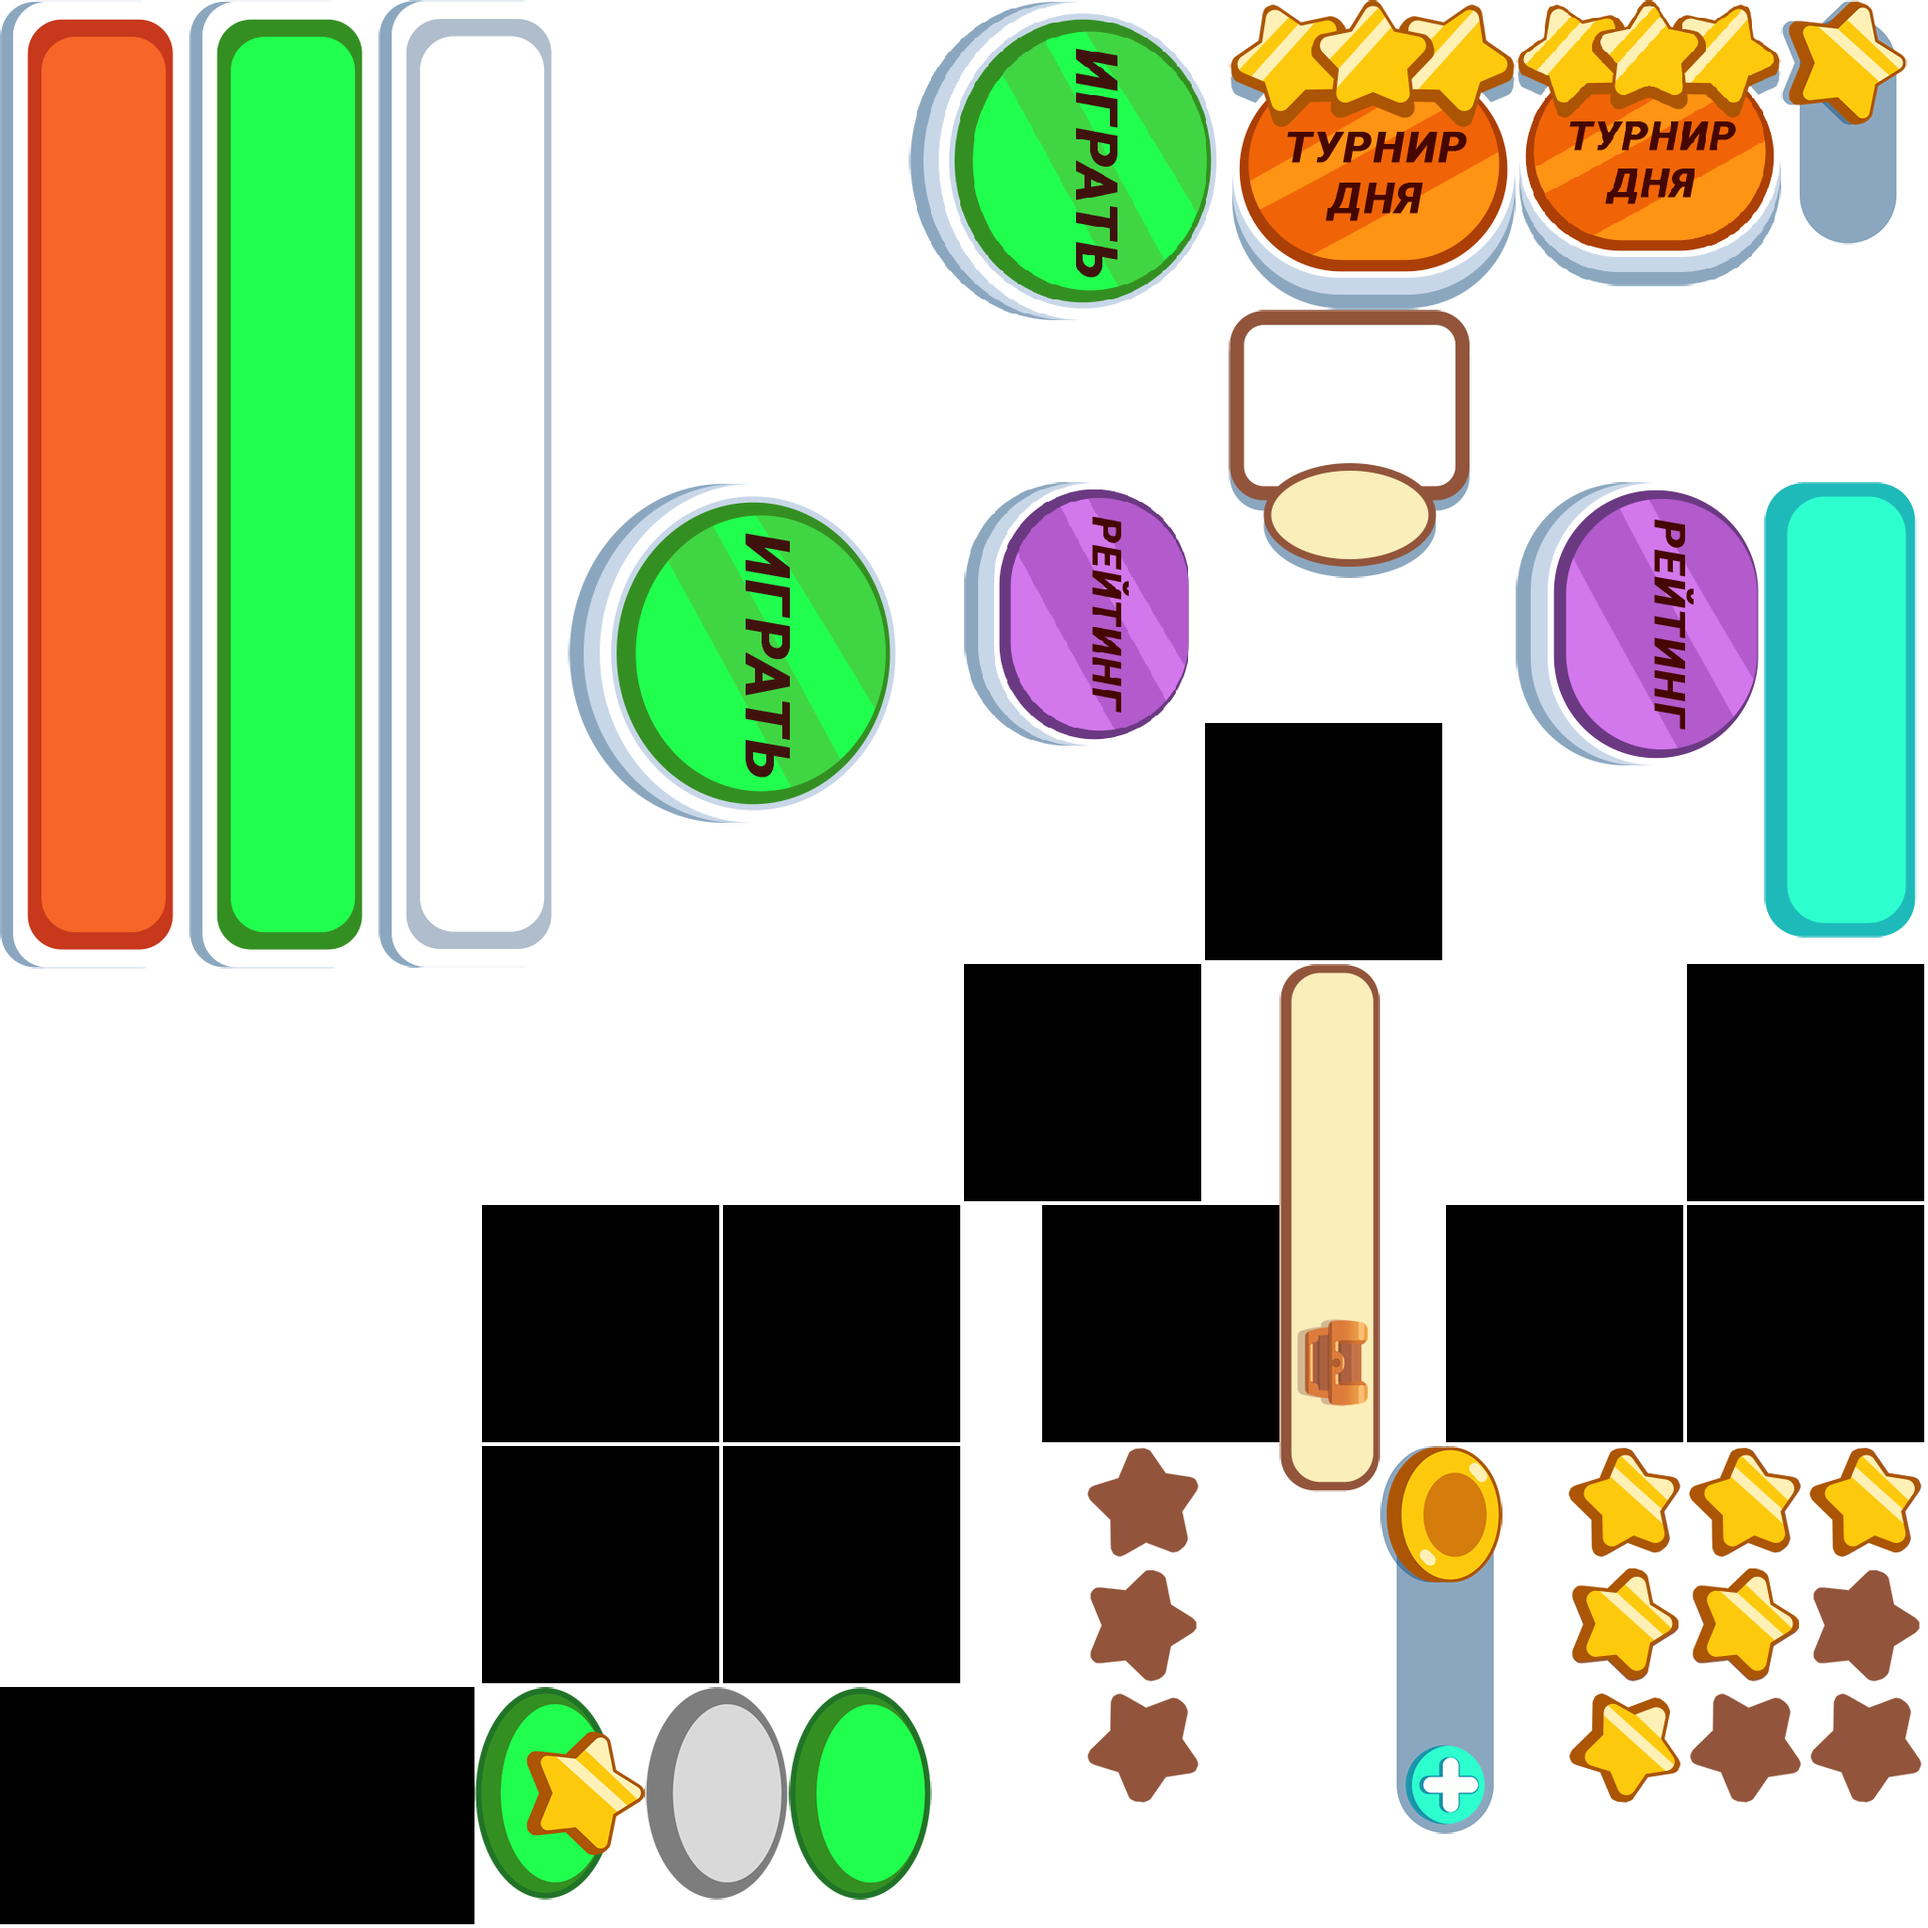
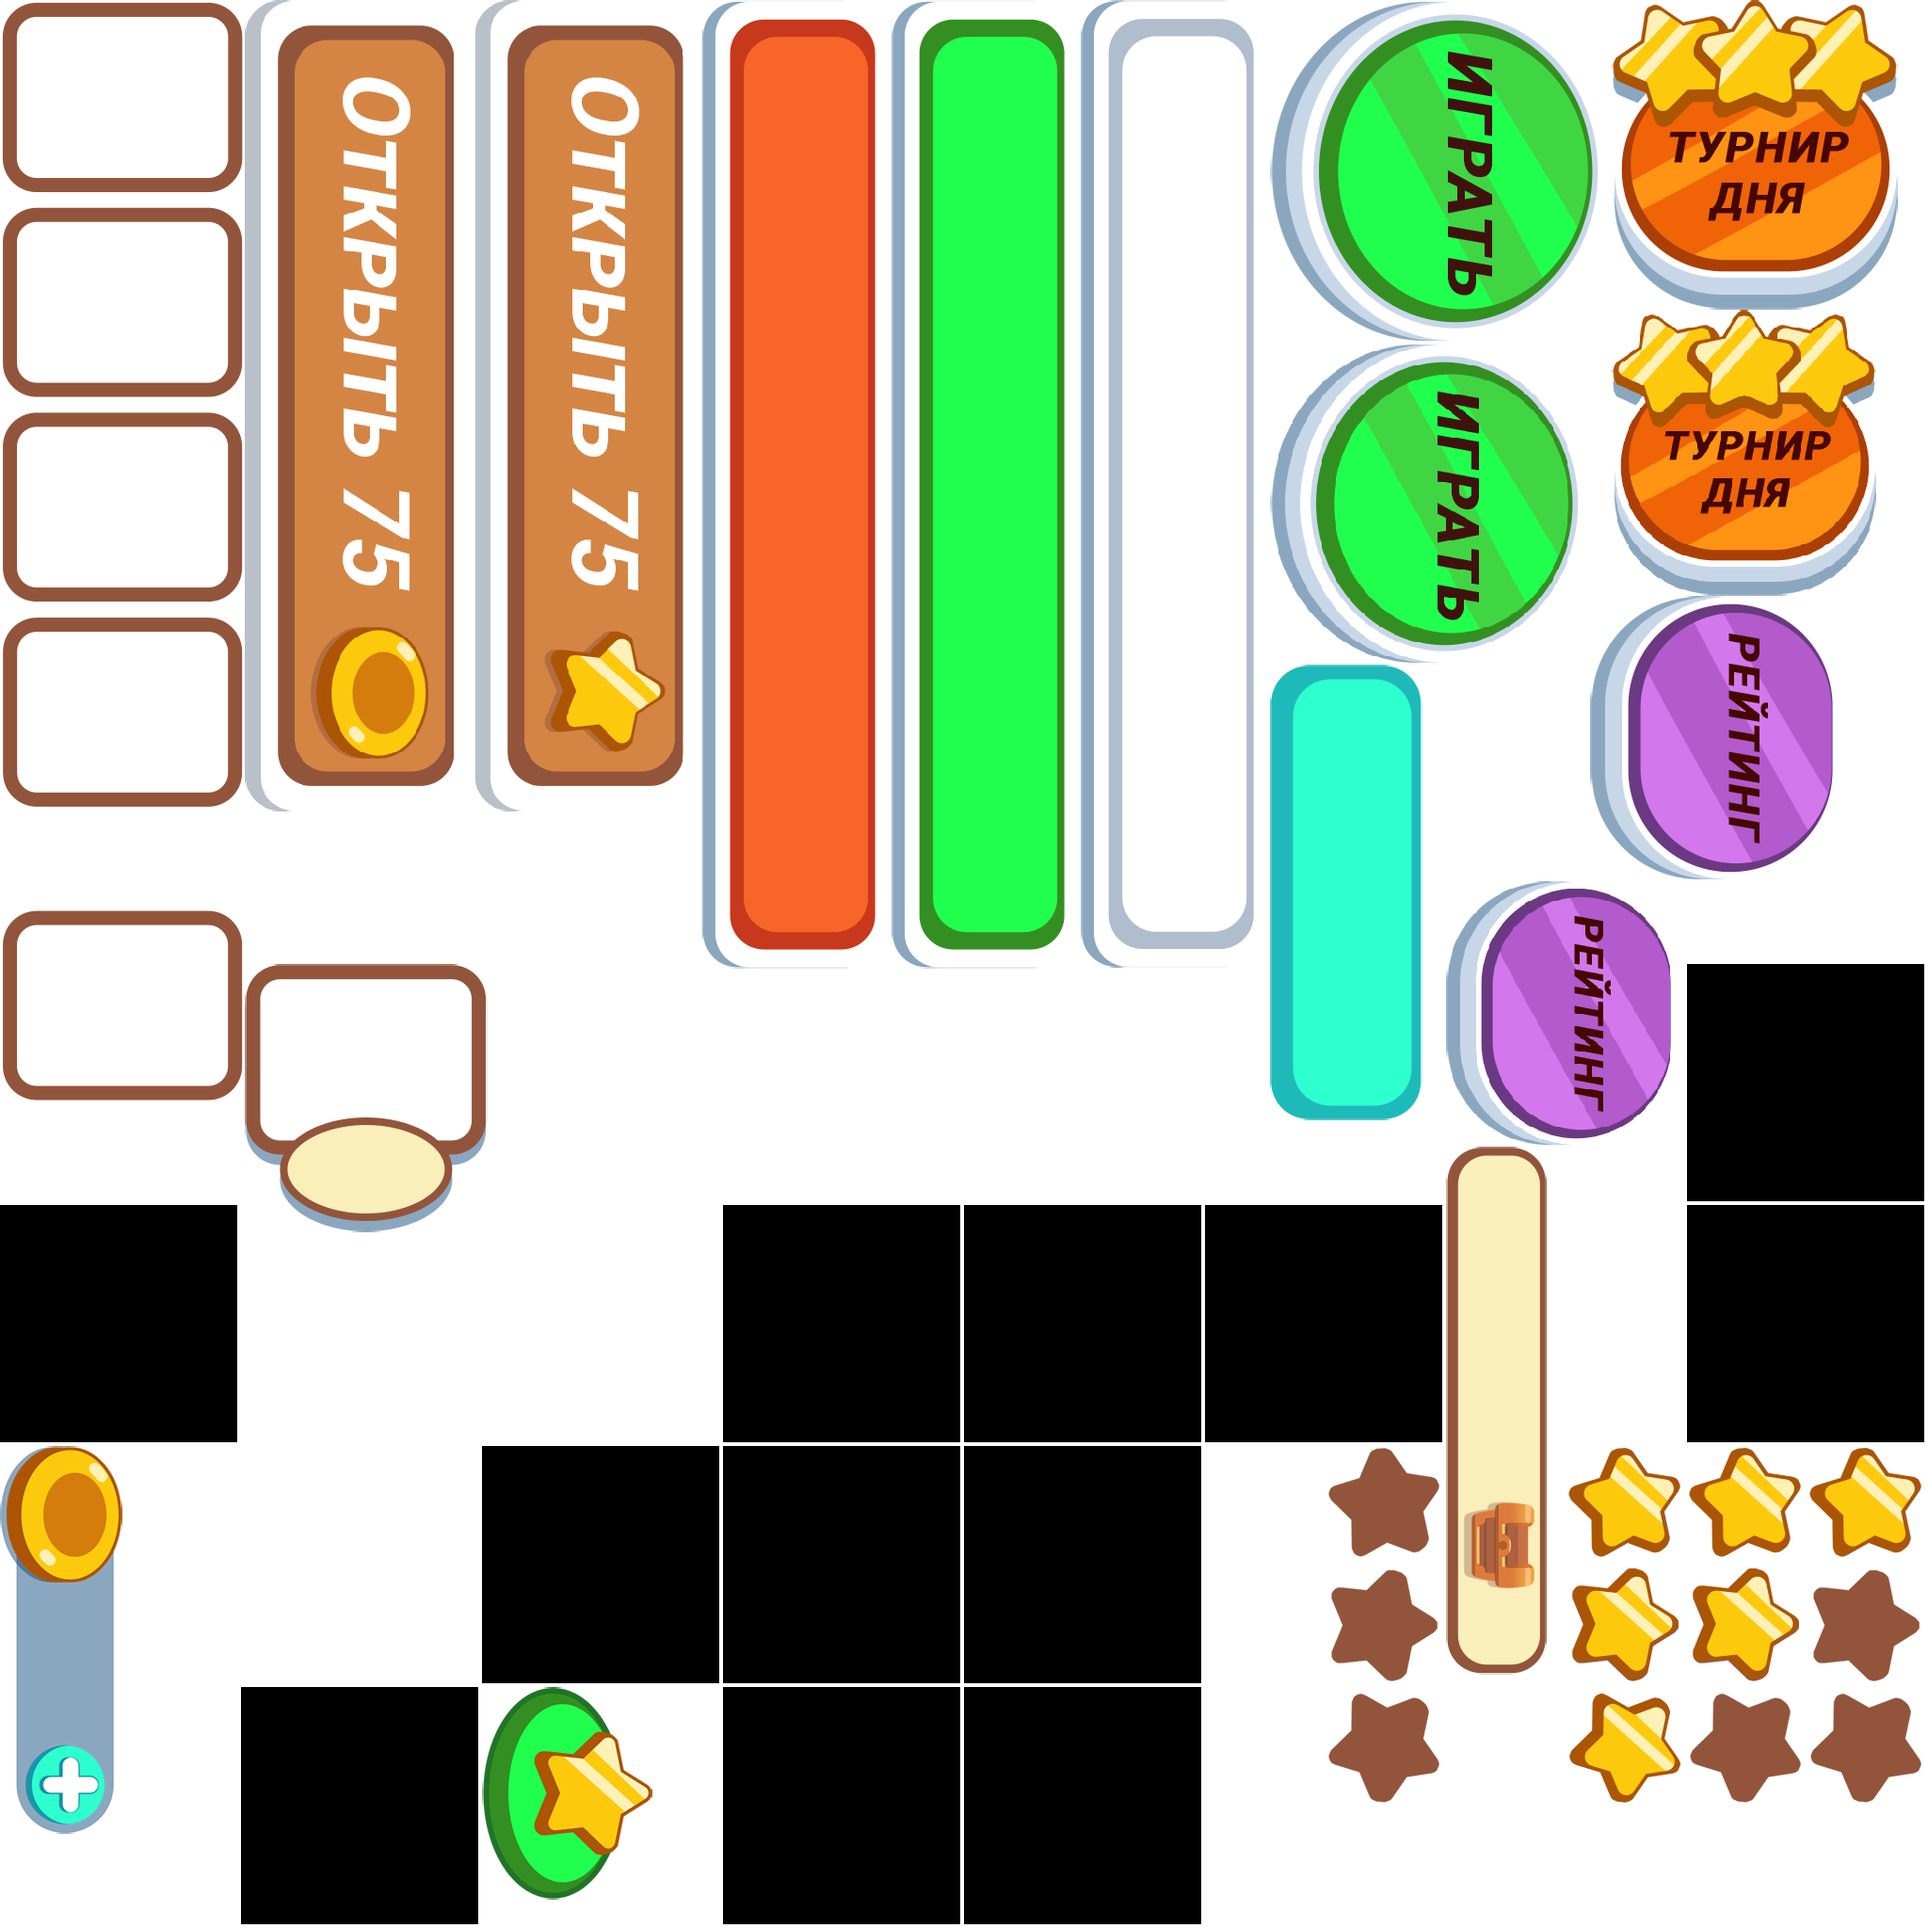
Add files via upload

diff --git a/scripts/c3runtime.js b/scripts/c3runtime.js
@@ -6670,17 +6670,21 @@ self.C3_GetObjectRefTable = function () {
 		C3.Plugins.Eponesh_GameScore.Exps.PlayerGet,
 		C3.Plugins.Text.Acts.SetText,
 		C3.Plugins.Sprite.Acts.SetAnimFrame,
+		C3.Plugins.Sprite.Cnds.CompareInstanceVar,
 		C3.Behaviors.Pin.Acts.PinByProperties,
 		C3.Plugins.Sprite.Acts.LoadURL,
 		C3.Plugins.Eponesh_GameScore.Exps.PlayerAvatar,
+		C3.Plugins.Sprite.Cnds.IsOverlapping,
 		C3.Plugins.Text.Cnds.CompareInstanceVar,
 		C3.Behaviors.Pin.Acts.Unpin,
-		C3.Plugins.Sprite.Cnds.CompareInstanceVar,
 		C3.Plugins.System.Cnds.Compare,
 		C3.Behaviors.MoveTo.Acts.MoveToPosition,
 		C3.Plugins.System.Cnds.IsGroupActive,
-		C3.Plugins.Date.Exps.GetUTCHours,
+		C3.Plugins.System.Exps.int,
+		C3.Plugins.System.Exps.tokenat,
+		C3.Plugins.Date.Exps.ToUTCString,
 		C3.Plugins.Date.Exps.Now,
+		C3.Plugins.Date.Exps.GetUTCHours,
 		C3.Plugins.Date.Exps.GetUTCMinutes,
 		C3.Plugins.Date.Exps.GetUTCSeconds,
 		C3.Plugins.System.Cnds.Every,
@@ -6691,6 +6695,7 @@ self.C3_GetObjectRefTable = function () {
 		C3.Plugins.Eponesh_GameScore.Acts.PlayerSet,
 		C3.Plugins.System.Cnds.Else,
 		C3.Plugins.Sprite.Exps.Y,
+		C3.Plugins.Eponesh_GameScore.Acts.AdsShowPreloader,
 		C3.Plugins.Sprite.Exps.X,
 		C3.Plugins.Sprite.Cnds.IsOutsideLayout,
 		C3.Plugins.System.Acts.GoToLayout,
@@ -6699,27 +6704,35 @@ self.C3_GetObjectRefTable = function () {
 		C3.Plugins.Eponesh_GameScore.Acts.LeaderboardFetch,
 		C3.Plugins.System.Acts.WaitForPreviousActions,
 		C3.Plugins.Eponesh_GameScore.Acts.PlayerSync,
-		C3.Plugins.Eponesh_GameScore.Cnds.LeaderboardEachPlayer,
 		C3.Plugins.Eponesh_GameScore.Exps.LeaderboardCurPlayerPosition,
+		C3.Plugins.Eponesh_GameScore.Cnds.LeaderboardEachPlayer,
 		C3.Plugins.Eponesh_GameScore.Exps.LeaderboardCurPlayerAvatar,
 		C3.Plugins.Eponesh_GameScore.Exps.LeaderboardCurPlayerField,
 		C3.Plugins.System.Cnds.Repeat,
 		C3.Plugins.System.Exps.loopindex,
 		C3.Plugins.System.Acts.AddVar,
 		C3.Plugins.Sprite.Exps.AnimationFrame,
-		C3.Plugins.System.Acts.SetFunctionReturnValue,
 		C3.Plugins.Date.Exps.ToTimerHours,
 		C3.Plugins.Date.Exps.ToTimerMinutes,
-		C3.Plugins.Date.Exps.GetUTCDay,
+		C3.Plugins.System.Acts.SetFunctionReturnValue,
 		C3.Plugins.Json.Cnds.IsBoolInstanceVarSet,
 		C3.Plugins.AJAX.Acts.RequestFile,
 		C3.Plugins.Json.Acts.SetBoolInstanceVar,
 		C3.Plugins.AJAX.Cnds.OnComplete,
 		C3.Plugins.System.Cnds.CompareBoolVar,
 		C3.Plugins.System.Cnds.TriggerOnce,
+		C3.Plugins.Sprite.Cnds.CompareOpacity,
 		C3.Plugins.System.Acts.SetBoolVar,
 		C3.Plugins.Sprite.Cnds.CompareFrame,
-		C3.Plugins.Sprite.Cnds.CompareOpacity,
+		C3.Plugins.Text.Cnds.CompareText,
+		C3.Plugins.Sprite.Acts.SetOpacity,
+		C3.Behaviors.MoveTo.Cnds.IsMoving,
+		C3.Behaviors.MoveTo.Cnds.OnArrived,
+		C3.Behaviors.MoveTo.Acts.Stop,
+		C3.Plugins.Sprite.Acts.SetPos,
+		C3.Plugins.Sprite.Exps.Opacity,
+		C3.Behaviors.MoveTo.Acts.MoveToObject,
+		C3.Plugins.System.Acts.CreateObject,
 		C3.Plugins.Json.Acts.Parse,
 		C3.Plugins.AJAX.Exps.LastData,
 		C3.Plugins.System.Exps.random,
@@ -6730,11 +6743,7 @@ self.C3_GetObjectRefTable = function () {
 		C3.Plugins.Arr.Exps.At,
 		C3.Plugins.Arr.Acts.Delete,
 		C3.Plugins.Arr.Exps.IndexOf,
-		C3.Plugins.Text.Exps.Text,
-		C3.Plugins.Text.Cnds.CompareText,
-		C3.Plugins.Sprite.Acts.SetOpacity,
-		C3.Plugins.Eponesh_GameScore.Acts.AdsShowPreloader,
-		C3.Behaviors.MoveTo.Cnds.IsMoving
+		C3.Plugins.Text.Exps.Text
 	];
 };
 self.C3_JsPropNameTable = [
@@ -6746,11 +6755,13 @@ self.C3_JsPropNameTable = [
 	{Индикатор: 0},
 	{ИндикаторЗвезд: 0},
 	{КамкаКартинки: 0},
+	{Load: 0},
 	{КартинкаПример: 0},
 	{ID: 0},
 	{КнопкаВыбора: 0},
 	{ТабличкаСундука: 0},
 	{ТекстВыбор: 0},
+	{Подложка: 0},
 	{Прикрепить: 0},
 	{РамкиДляАватарок: 0},
 	{ДвижениеК: 0},
@@ -6794,6 +6805,11 @@ self.C3_JsPropNameTable = [
 	{неверноИндикатор: 0},
 	{РамкаДляИгрокаНаКарте: 0},
 	{АватарИгрока: 0},
+	{ПозицияТекст: 0},
+	{Текст: 0},
+	{КрылатыеВыражения: 0},
+	{Звезда: 0},
+	{Монета: 0},
 	{Аватары: 0},
 	{АватарыТурик: 0},
 	{StarsCount: 0},
@@ -6802,6 +6818,7 @@ self.C3_JsPropNameTable = [
 	{Checkpoints: 0},
 	{TimeLeft: 0},
 	{TimeNow: 0},
+	{Day: 0},
 	{GSDay: 0},
 	{RandomID: 0},
 	{TrueStr: 0},
@@ -6933,17 +6950,37 @@ self.C3_ExpressionFuncs = [
 			return () => v0.GetValue();
 		},
 		p => {
+			const v0 = p._GetNode(0).GetVar();
+			return () => (v0.GetValue() * 2);
+		},
+		() => 1,
+		p => {
+			const v0 = p._GetNode(0).GetVar();
+			return () => (((v0.GetValue() * 2) + 1) % 7);
+		},
+		p => {
 			const f0 = p._GetNode(0).GetBoundMethod();
 			return () => f0();
 		},
 		() => -4,
 		() => 0,
-		() => 1,
 		() => 2,
 		() => 3,
 		() => 8,
 		() => 540,
 		() => 1043,
+		() => "Турнир",
+		p => {
+			const f0 = p._GetNode(0).GetBoundMethod();
+			const f1 = p._GetNode(1).GetBoundMethod();
+			const f2 = p._GetNode(2).GetBoundMethod();
+			const f3 = p._GetNode(3).GetBoundMethod();
+			return () => f0(f1(f2((f3() + (3 * 3600000))), 1, " "));
+		},
+		p => {
+			const f0 = p._GetNode(0).GetBoundMethod();
+			return () => f0("day");
+		},
 		() => "Таймер Турнира",
 		p => {
 			const f0 = p._GetNode(0).GetBoundMethod();
@@ -6953,7 +6990,7 @@ self.C3_ExpressionFuncs = [
 			const f4 = p._GetNode(4).GetBoundMethod();
 			const f5 = p._GetNode(5).GetBoundMethod();
 			const f6 = p._GetNode(6).GetBoundMethod();
-			return () => f0((((((f1(f2()) + 1) * 3600) + (f3(f4()) * 60)) + f5(f6())) * 1000));
+			return () => f0((((((f1(f2()) + 3) * 3600) + (f3(f4()) * 60)) + f5(f6())) * 1000));
 		},
 		() => 60,
 		() => "Кнопочки",
@@ -6977,6 +7014,11 @@ self.C3_ExpressionFuncs = [
 		() => 5,
 		() => "",
 		() => -5,
+		() => -1,
+		p => {
+			const f0 = p._GetNode(0).GetBoundMethod();
+			return () => (f0() + 1);
+		},
 		p => {
 			const f0 = p._GetNode(0).GetBoundMethod();
 			return () => (f0() - 1);
@@ -6990,16 +7032,87 @@ self.C3_ExpressionFuncs = [
 		p => {
 			const f0 = p._GetNode(0).GetBoundMethod();
 			const v1 = p._GetNode(1).GetVar();
+			return () => f0(v1.GetValue());
+		},
+		() => 10,
+		p => {
+			const f0 = p._GetNode(0).GetBoundMethod();
+			const v1 = p._GetNode(1).GetVar();
+			const f2 = p._GetNode(2).GetBoundMethod();
+			const v3 = p._GetNode(3).GetVar();
+			return () => and((and("0", f0(v1.GetValue())) + ":"), f2(v3.GetValue()));
+		},
+		p => {
+			const f0 = p._GetNode(0).GetBoundMethod();
+			const v1 = p._GetNode(1).GetVar();
+			const f2 = p._GetNode(2).GetBoundMethod();
+			const v3 = p._GetNode(3).GetVar();
+			return () => and((and(f0(v1.GetValue()), ":") + "0"), f2(v3.GetValue()));
+		},
+		p => {
+			const f0 = p._GetNode(0).GetBoundMethod();
+			const v1 = p._GetNode(1).GetVar();
+			const f2 = p._GetNode(2).GetBoundMethod();
+			const v3 = p._GetNode(3).GetVar();
+			return () => and(((and("0", f0(v1.GetValue())) + ":") + "0"), f2(v3.GetValue()));
+		},
+		p => {
+			const f0 = p._GetNode(0).GetBoundMethod();
+			const v1 = p._GetNode(1).GetVar();
 			const f2 = p._GetNode(2).GetBoundMethod();
 			const v3 = p._GetNode(3).GetVar();
 			return () => and(and(f0(v1.GetValue()), ":"), f2(v3.GetValue()));
 		},
+		() => "day",
 		p => {
-			const f0 = p._GetNode(0).GetBoundMethod();
-			const f1 = p._GetNode(1).GetBoundMethod();
-			return () => f0(f1());
+			const v0 = p._GetNode(0).GetVar();
+			return () => (v0.GetValue()).toString();
+		},
+		() => "timerate",
+		() => 4,
+		() => "Угадай пословицы по картинке",
+		() => "Угадай афоризмы по картинке",
+		() => "Угадай крылатые выражения по картинке",
+		() => "Угадай героев кино по картинке",
+		p => {
+			const v0 = p._GetNode(0).GetVar();
+			return () => and(("Задание" + " "), (v0.GetValue() + 1));
 		},
 		() => "Quiz",
+		() => "Кнопки",
+		p => {
+			const n0 = p._GetNode(0);
+			return () => n0.ExpInstVar();
+		},
+		p => {
+			const n0 = p._GetNode(0);
+			return () => (n0.ExpObject() + 1);
+		},
+		() => 0.5,
+		p => {
+			const n0 = p._GetNode(0);
+			return () => (n0.ExpObject() - 1);
+		},
+		() => 100,
+		() => "Штраф",
+		() => 15,
+		() => "Анимации",
+		() => 408,
+		() => 260,
+		() => 542,
+		() => 670,
+		p => {
+			const n0 = p._GetNode(0);
+			return () => (n0.ExpObject() + 2);
+		},
+		p => {
+			const n0 = p._GetNode(0);
+			return () => (n0.ExpObject() - 2);
+		},
+		() => 0.2,
+		() => 683,
+		() => 1206,
+		() => -580,
 		p => {
 			const f0 = p._GetNode(0).GetBoundMethod();
 			const n1 = p._GetNode(1);
@@ -7023,6 +7136,10 @@ self.C3_ExpressionFuncs = [
 		},
 		p => {
 			const n0 = p._GetNode(0);
+			return () => n0.ExpObject(".url");
+		},
+		p => {
+			const n0 = p._GetNode(0);
 			const f1 = p._GetNode(1).GetBoundMethod();
 			return () => n0.ExpObject(Math.round(f1(0, 2)));
 		},
@@ -7039,29 +7156,7 @@ self.C3_ExpressionFuncs = [
 		p => {
 			const n0 = p._GetNode(0);
 			return () => n0.ExpObject(0);
-		},
-		p => {
-			const n0 = p._GetNode(0);
-			return () => n0.ExpObject(".url");
-		},
-		() => "Кнопки",
-		p => {
-			const n0 = p._GetNode(0);
-			return () => n0.ExpInstVar();
-		},
-		p => {
-			const n0 = p._GetNode(0);
-			return () => (n0.ExpObject() + 1);
-		},
-		() => 0.5,
-		p => {
-			const n0 = p._GetNode(0);
-			return () => (n0.ExpObject() - 1);
-		},
-		() => 100,
-		() => "Штраф",
-		() => 15,
-		() => -580
+		}
 ];
 
 
